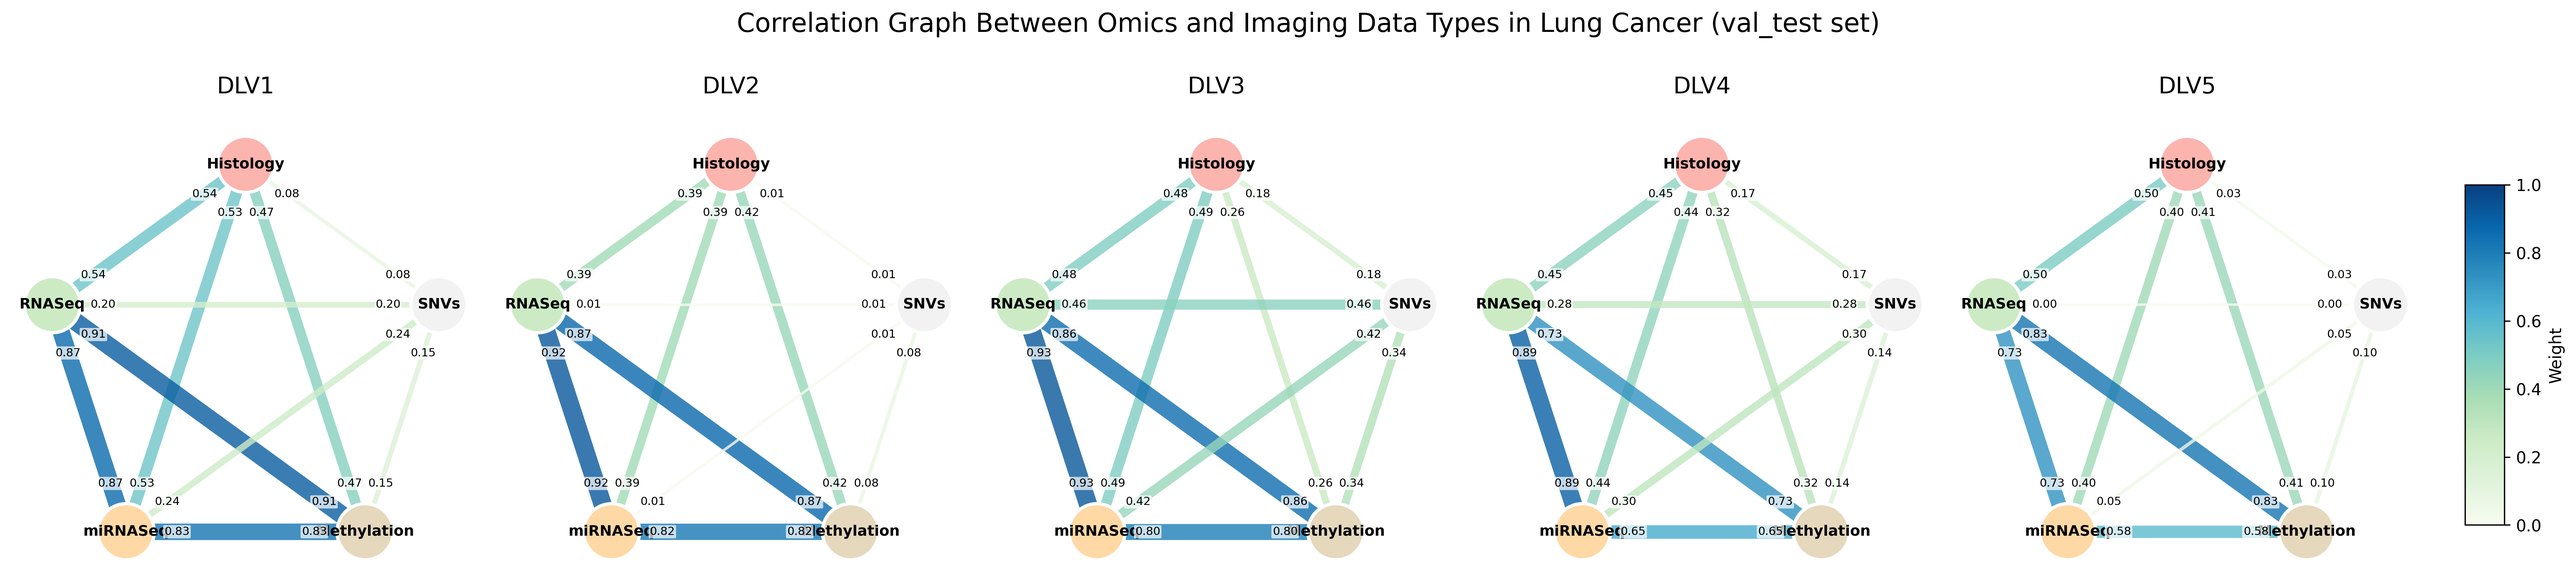
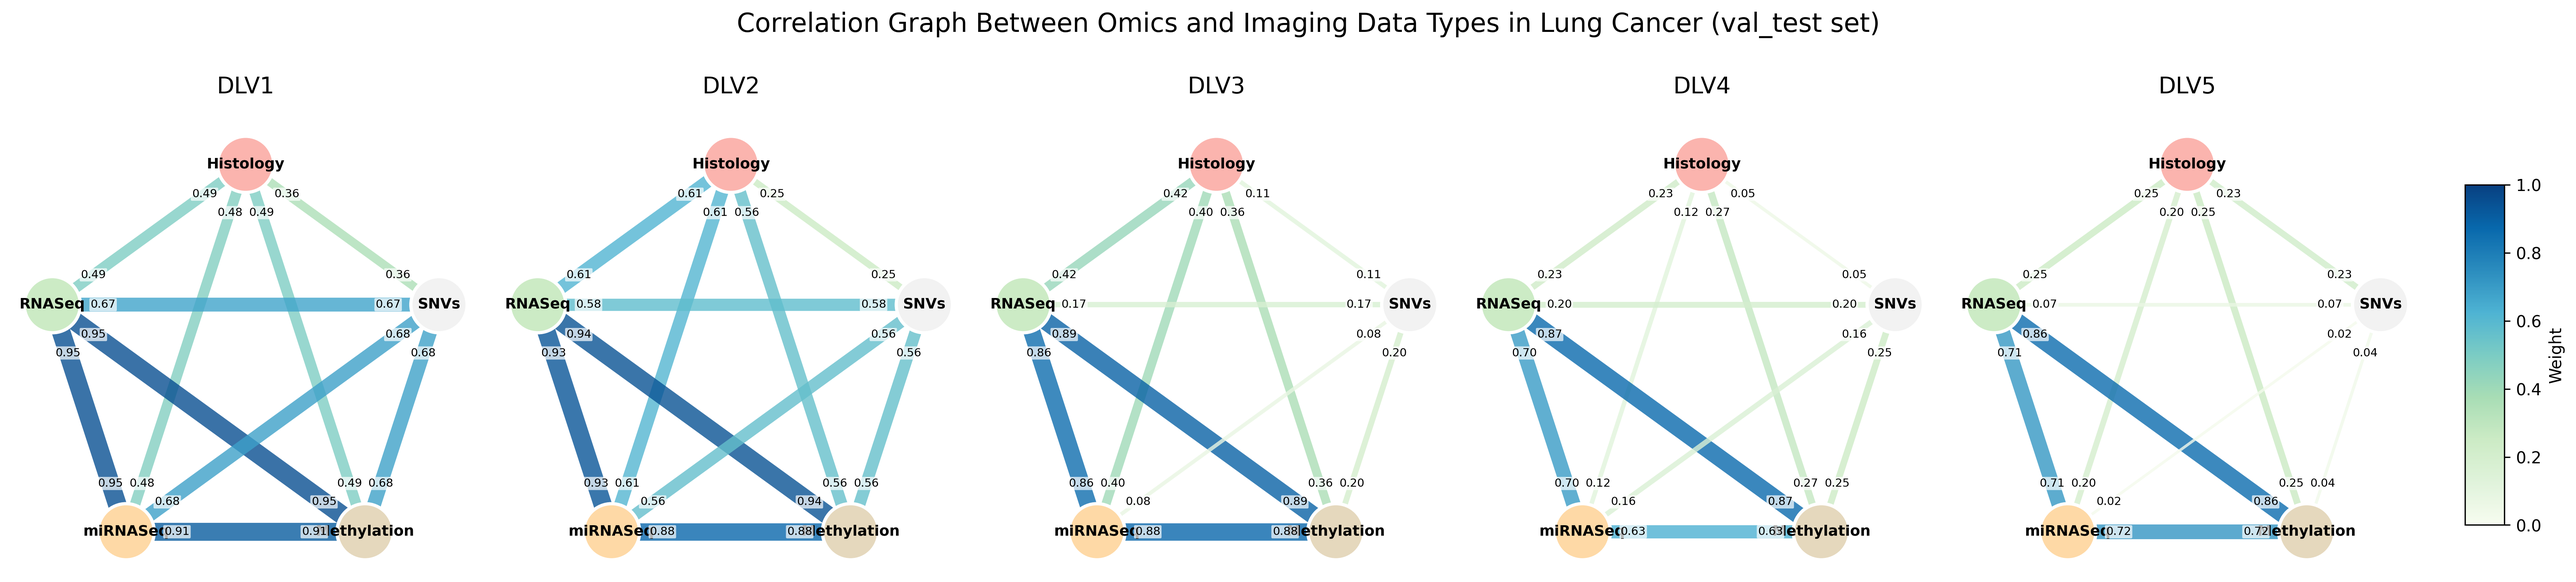
fix: replace manual regularization with AdamW weight_decay; tune BatchNorm
- Remove `regularization_loss()` from ResidualBlock; it was never
  automatically added to the training loss
- Add `_make_optimizer` with per-group weight_decay=0.02 on linear
  weights to replicate Keras `kernel_regularizer=l1_l2(l2=0.01)`
- Set BatchNorm1d momentum=0.01, eps=0.001 to match Keras defaults

diff --git a/tutorial/run_tcga.py b/tutorial/run_tcga.py
@@ -60,15 +60,11 @@ class ResidualBlock(nn.Module):
     def __init__(
         self,
         input_dim: int,
-        kernel_reg_l1: float = 0.01,
-        kernel_reg_l2: float = 0.01,
         dropout_rate: float = 0.5,
     ) -> None:
         super().__init__()
-        self.kernel_reg_l1 = kernel_reg_l1
-        self.kernel_reg_l2 = kernel_reg_l2
         self.linear1 = nn.Linear(input_dim, input_dim)
-        self.bn = nn.BatchNorm1d(input_dim)
+        self.bn = nn.BatchNorm1d(input_dim, momentum=0.01, eps=0.001)
         self.relu = nn.ReLU()
         self.linear2 = nn.Linear(input_dim, input_dim)
         self.dropout = nn.Dropout(dropout_rate)
@@ -88,21 +84,6 @@ class ResidualBlock(nn.Module):
         out = out + x
         out = self.dropout(out)
         return out
-
-    def regularization_loss(self) -> torch.Tensor:
-        device = self.linear1.weight.device
-        dtype = self.linear1.weight.dtype
-        penalty = torch.zeros((), device=device, dtype=dtype)
-        if self.kernel_reg_l1:
-            penalty = penalty + self.kernel_reg_l1 * (
-                self.linear1.weight.abs().sum() + self.linear2.weight.abs().sum()
-            )
-        if self.kernel_reg_l2:
-            penalty = penalty + self.kernel_reg_l2 * (
-                (self.linear1.weight**2).sum() + (self.linear2.weight**2).sum()
-            )
-        return penalty
-
 
 def residual_encoder(input_dim: int, name: str = "residual_enc") -> nn.Sequential:
     """Wrap a ResidualBlock in a Sequential and tag with n_inputs."""
@@ -138,7 +119,7 @@ Path = np.array(
 )
 
 batch_size = 256
-epochs = 200
+epochs = 300
 tot_num = rnaseq.shape[0]
 
 regularizer_list = [(0.001, 0.001)] * len(model_list)
@@ -161,7 +142,27 @@ init_lr, final_lr = 1e-4, 1e-5
 gamma = (final_lr / init_lr) ** (1.0 / epochs)
 
 model.build(X_train)
-opt_list = [torch.optim.Adam(m.parameters(), lr=init_lr) for m in model.model_list]
+
+
+def _make_optimizer(full_model: nn.Sequential, lr: float) -> torch.optim.Adam:
+    # After build: full_model = nn.Sequential(user_encoder, FactorLayer)
+    # Apply weight_decay only to encoder linear weights to approximate
+    # Keras kernel_regularizer=l1_l2(l2=0.01): weight_decay=2*l2=0.02.
+    # (L1 cannot be replicated via weight_decay.)
+    encoder = full_model[0]
+    factor = full_model[1]
+    lin_w = [p for n, p in encoder.named_parameters()
+             if n.endswith(".weight") and "bn" not in n]
+    other = [p for n, p in encoder.named_parameters()
+             if not (n.endswith(".weight") and "bn" not in n)]
+    return torch.optim.Adam([
+        {"params": lin_w, "weight_decay": 0.02},
+        {"params": other, "weight_decay": 0.0},
+        {"params": list(factor.parameters()), "weight_decay": 0.0},
+    ], lr=lr)
+
+
+opt_list = [_make_optimizer(m, init_lr) for m in model.model_list]
 schedulers = [
     torch.optim.lr_scheduler.ExponentialLR(opt, gamma=gamma) for opt in opt_list
 ]
